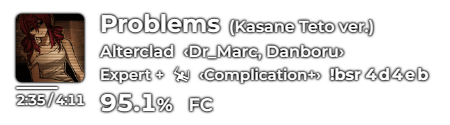
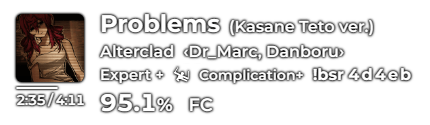
Remove brackets around difficulty label, reduce font size

Changed region(s): [[0.0302, 0.096, 0.9674, 0.912], [0.0302, 0.696, 0.0605, 0.72]]

diff --git a/index.css b/index.css
@@ -92,23 +92,20 @@ span:empty {
 	font-weight: 700;
 }
 
-#mapper::before,
-#difficultyLabel::before {
-	content: "‹";
-}
-
-#mapper::after,
-#difficultyLabel::after {
-	content: "›";
-}
-
-#difficultyLabel,
-#subTitle {
+#subTitle,
+#difficultyLabel {
 	flex-shrink: 99999;
 }
 
-#difficulty,
-#difficultyLabel {
+#mapper::before {
+	content: "‹";
+}
+
+#mapper::after {
+	content: "›";
+}
+
+#difficulty {
 	font-size: 1.5rem;
 }
 
@@ -117,6 +114,10 @@ span:empty {
 	height: 1.7rem;
 	flex-shrink: 0;
 	align-self: center;
+}
+
+#difficultyLabel {
+	font-size: 1.4rem;
 }
 
 #type,
